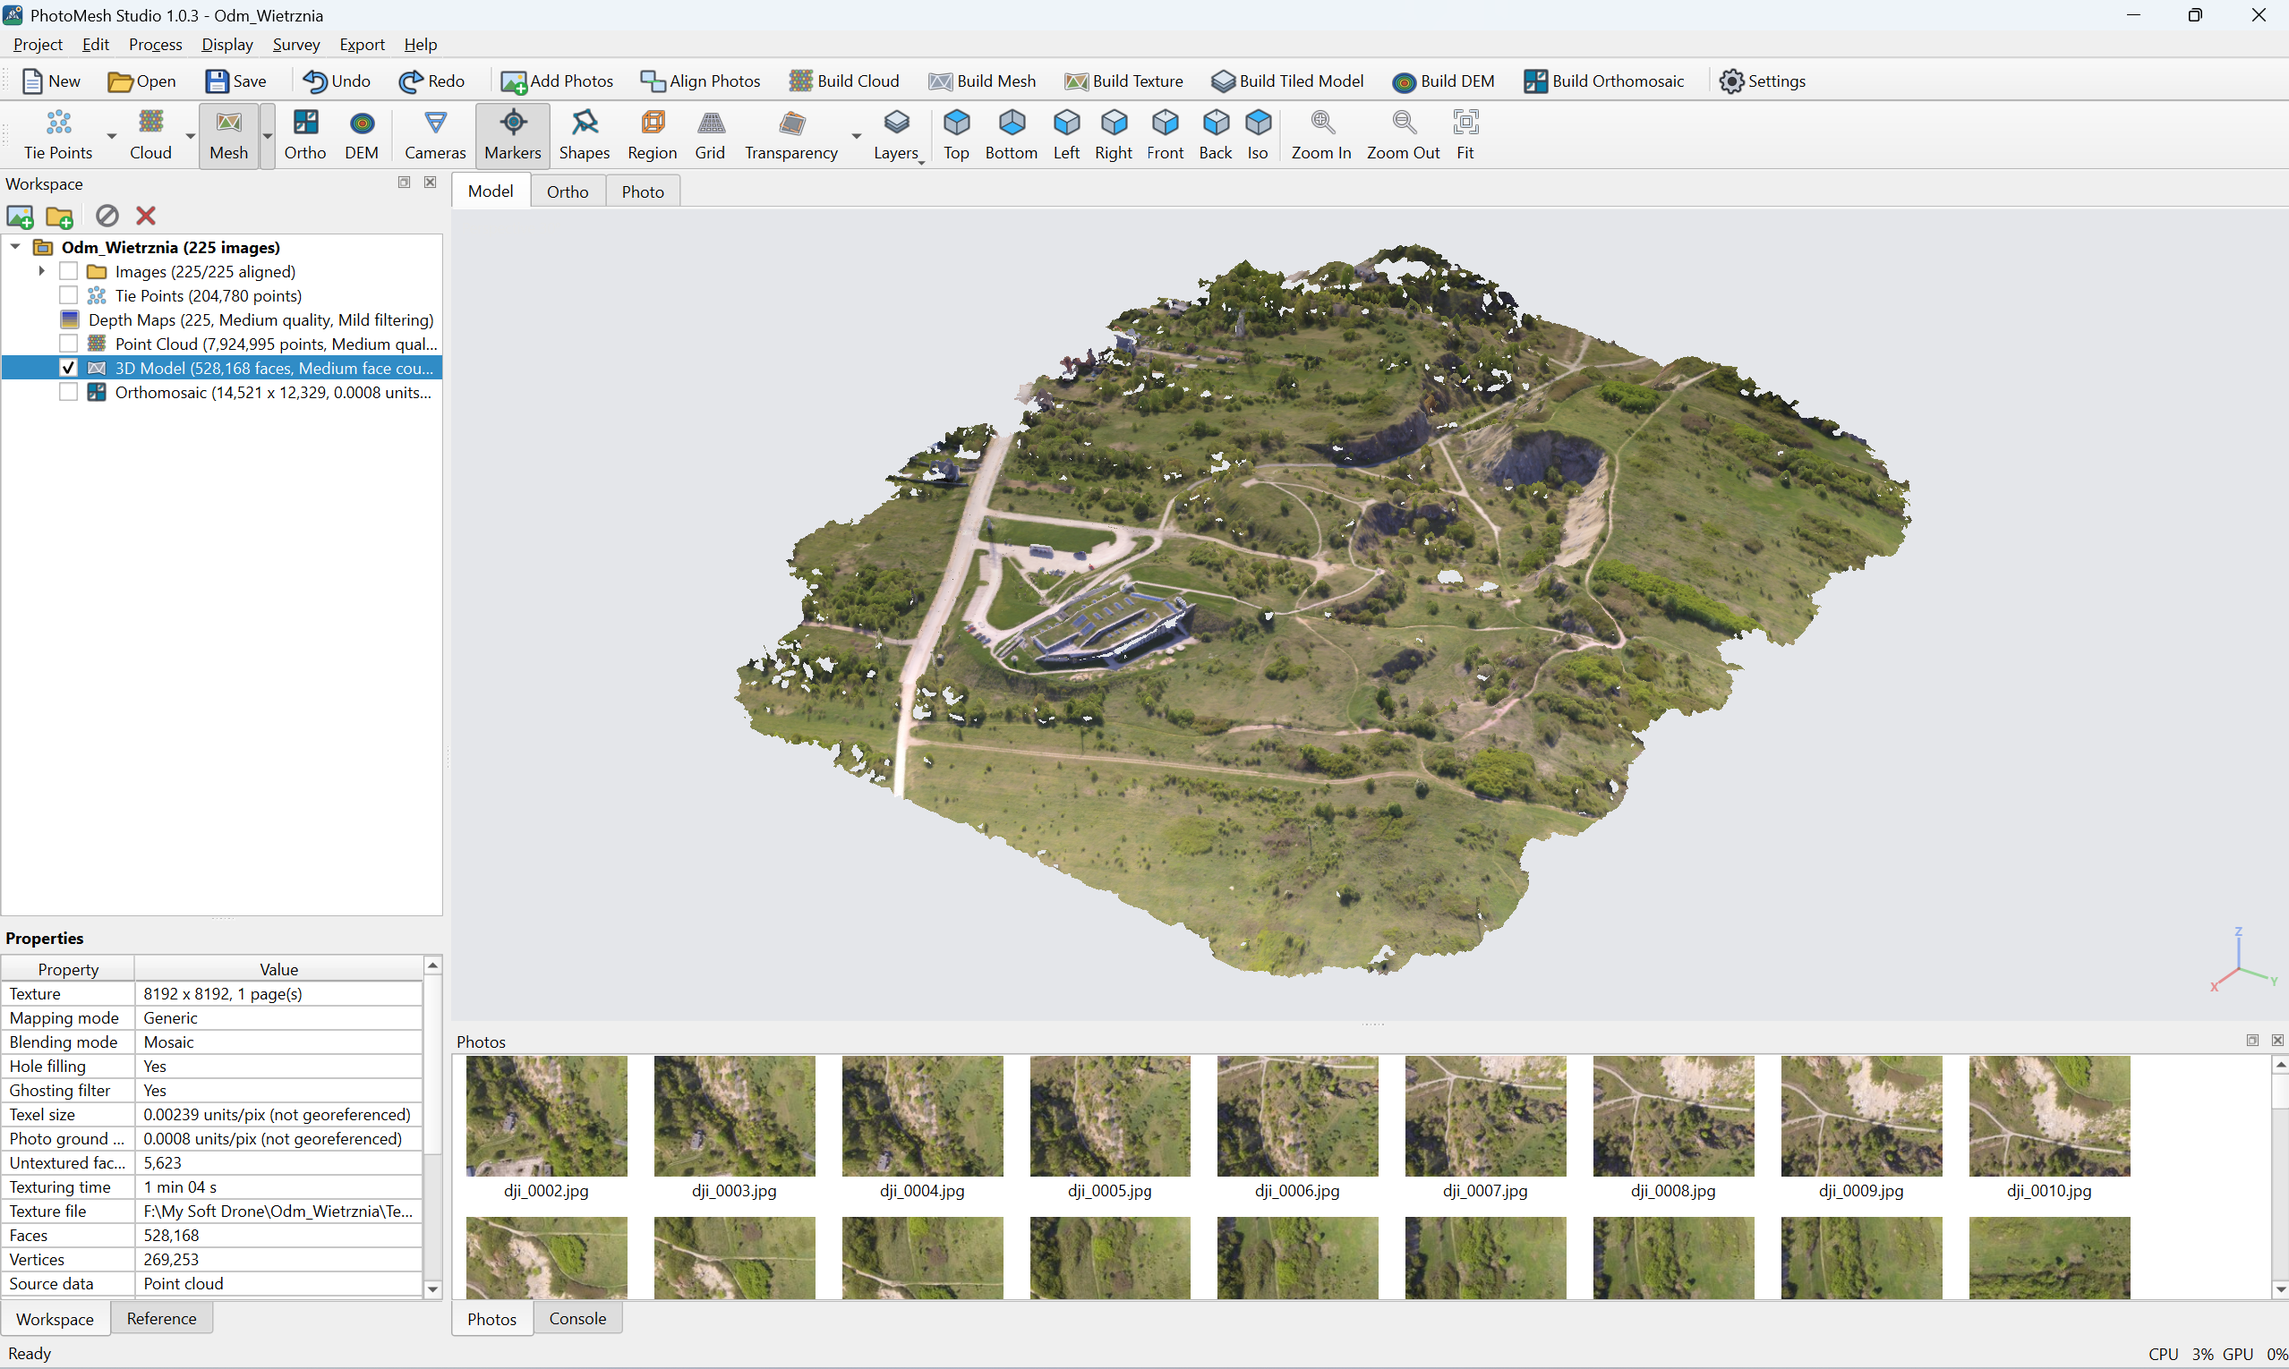
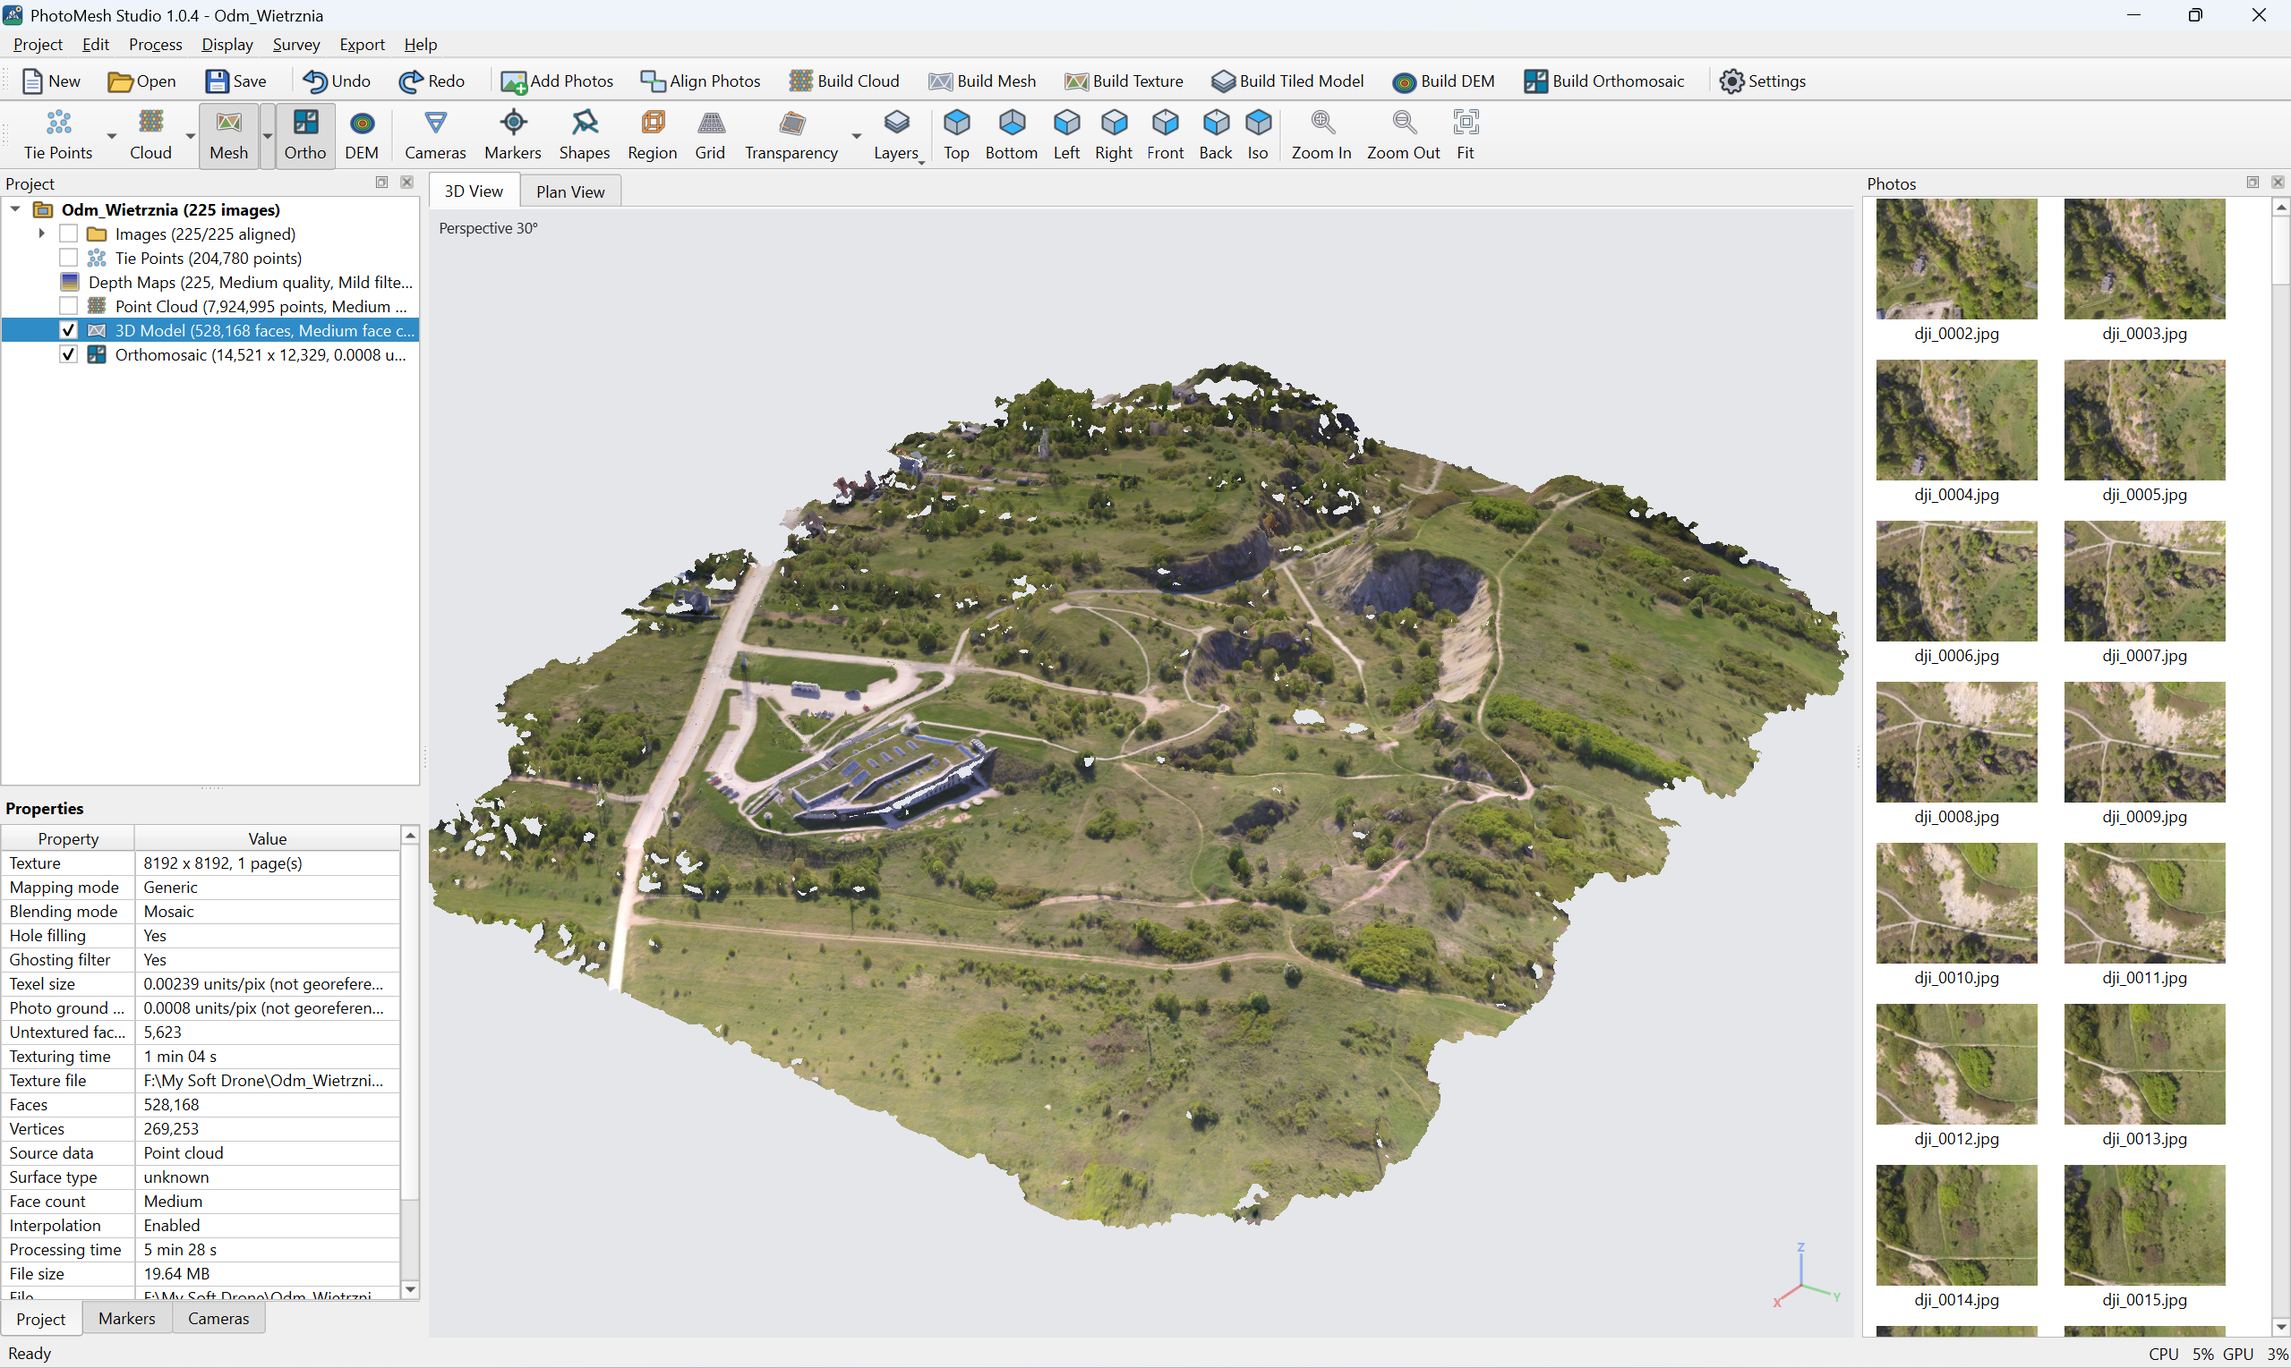
Refresh 1.0.4 project screenshots and published release documentation

diff --git a/packaging/RELEASE.md b/packaging/RELEASE.md
@@ -9,7 +9,7 @@ the new Setup on the existing installation; it replaces the managed app,
 Python, and tools folders. Projects, source photos, and processing results
 should be kept outside the installation folder.
 
-Build from the repository checkout with Inno Setup (the 1.0.3 candidate was verified with Inno Setup 6):
+Build from the repository checkout with Inno Setup:
 
 ```powershell
 powershell.exe -NoProfile -ExecutionPolicy Bypass -File packaging/build_release.ps1 `
@@ -55,31 +55,19 @@ Native CPU integration and numerical benchmarks are documented in the
 [engine review](../docs/development/engine-modernization-102.md). GPU behavior
 must additionally be checked on target hardware before distributing a release.
 
-## Verified 1.0.3 distribution
+## Verified 1.0.4 distribution
 
-[Actions run 42310283579](https://github.com/behdad-nayyerpour/Desktop-PhotoMesh-Studio/actions/runs/42310283579)
-built the complete candidate from `127c682c6d05d61093843f5a1ed8a23f833005d8`.
-It reused the SHA256-verified 1.0.2 runtime, checked runtime identity and staged
-imports, then installed the new Setup over a disposable 1.0.2 installation.
-All 68 application module names and hashes matched; obsolete managed code was
-removed and an external project-metadata fixture was preserved. Installed
-version, About, resources and split-button captions passed.
[1 lines of base64/hex data omitted]
 
-The user approved the installed candidate for public distribution on 2026-11-07.
-The public release reuses that exact Setup/checksum. Remaining target-hardware
-checks are recorded in the [release review](../docs/development/release-review-103.md).
-Documentation-only follow-ups do not alter that tested executable or require a
-new Setup; a later source build will include the updated documentation.
+The [installer run](https://github.com/behdad-nayyerpour/Desktop-PhotoMesh-Studio/actions/runs/42383383859) tested upgrading a disposable 1.0.3 installation. The [publication run](https://github.com/behdad-nayyerpour/Desktop-PhotoMesh-Studio/actions/runs/42399927092) downloaded the public executable and compared it byte-for-byte with the tested installer. The [release review](../docs/development/release-review-104.md) records the validated source and numerical results.
 
-The one-time 1.0.3 publication and archive workflows were retired after success;
-use the production builder above for later versions. Historical Actions evidence
-remains in the release review. Retired workflows are recoverable from Git history
-and are not current release instructions.
+The 1.0.3 installer used in the original upgrade test has since been removed from its public release. For a new build with the same runtime layout, install the current release in a staging environment and supply its installation directory as `-RuntimeSource`. Reproducing the historical upgrade test requires a retained copy of the original 1.0.3 Setup.
+
+Documentation and screenshot changes appear on GitHub immediately. The offline documentation in each Setup reflects its build date.
 
 ## Application license
 
 The builder copies the root `LICENSE` into the staged application. Inno Setup
 shows that file as the application's license agreement. Preserve the separate
 third-party license notices; the application license does not replace them.
-These packaging changes apply to subsequent builds. The already published
-1.0.3 Setup predates the license addition and has not been rebuilt or replaced.
+The 1.0.4 installation also provides offline access to the bundled license through Help > About.

diff --git a/docs/development/release-quality.md b/docs/development/release-quality.md
@@ -77,10 +77,7 @@ it alone does not require rebuilding the Setup or increasing the app version.
 
 ## Approved scope for 1.0.4 (2026-11-07)
 
-The user approved the following scope for the next version. The goal is a
-cleaner layout and a more distinct visual identity while preserving application
-capabilities and integrity. Implementation and the reviewed test installer are complete on the release branch.
-The user subsequently requested the final fixes and explicitly authorized release.
+The following scope shipped in 1.0.4 after the user reviewed the test installer and authorized publication.
 The numerical review and later photo-only marker editing approval are recorded in
 [release-review-104.md](release-review-104.md), which retains final validation evidence.
 
@@ -119,20 +116,18 @@ The numerical review and later photo-only marker editing approval are recorded i
   requires the user's separate approval after that review; scope approval is
   not publication authorization.
 
-## Required for the next application release
+## License notice shipped in 1.0.4
 
 - [x] Add a concise license notice to Help > About PhotoMesh Studio: personal
   and educational non-commercial use; commercial use, including company
   evaluation, requires prior written permission. Provide access to the full
   bundled LICENSE text and keep third-party licenses distinct. Verify readable
   layout in both themes and that the license can be opened offline in the
-  installed application. This is scheduled for the next release; the current
-  1.0.3 executable is unchanged.
+  installed application.
 
 ### Approved About content (2026-11-07)
 
-Implement the following user-approved content in the next application release
-and retain it in subsequent versions. Use the actual application name/version
+Version 1.0.4 includes the following user-approved content. Retain it in subsequent versions. Use the actual application name/version
 from application metadata; the license itself has no version number.
 
 > **PhotoMesh Studio — [Application version]**

diff --git a/docs/development/README.md b/docs/development/README.md
@@ -116,18 +116,15 @@ manual findings, cleanup, validation and remaining target-hardware checks.
 
 ## Release validation and retained tools
 
-[1.0.3 release review](release-review-103.md) is the current consolidated review.
-The temporary toolbar/error/icon preview notes have been removed after their
-relevant findings and evidence were consolidated there. Earlier version-specific
-engine/workflow reports remain historical evidence, as do regression tests.
+The [1.0.4 release review](release-review-104.md) records the marker and GPS
+audit, regression results, installed upgrade and published installer identity.
+The [1.0.3 review](release-review-103.md) retains the earlier baseline.
 
+The production builder accepts a tested installed runtime. The version-specific
+1.0.4 candidate workflow used the former public 1.0.3 installer for its upgrade
+fixture. For a new build, follow the [packaging guide](../../packaging/RELEASE.md).
+The installed validators in `tools/validate_installed_103.py` and
+`tools/validate_installed_104.py` cover their respective versions.
 
-The completed 1.0.3 preview/publication/archive workflows have been retired;
-their successful Actions runs remain linked from the release review. The current
-Tests workflow and production Setup builder are the maintained paths.
-`tools/validate_installed_103.py` is a deliberately version-specific acceptance
-utility for a disposable 1.0.3 installation; it checks installed source identity,
-resources, About and captions. It is not the generic publisher for future versions.
-
-The unreferenced standalone toolbar preview PNG has been removed. The root
-Light/Dark project screenshots are the current user-approved 1.0.3 captures.
+The [project screenshots](../../README.md#screenshots) show the released Windows
+1.0.4 interface in Dark and Light themes.

diff --git a/docs/user-guide.md b/docs/user-guide.md
@@ -77,7 +77,7 @@ atlas and sampled multithreaded. Visibility is cached (`visibility_cache.npz`), 
 compatible re-texturing can reuse visibility work. Actual timings depend on the project.
 
 Output in `<project>.files/…/texture/`: `model_textured.obj/.mtl`, `texture_N.jpg`,
-`model_textured.glb`, `uv.npz`, `info.json`. The workspace row reads
+`model_textured.glb`, `uv.npz`, `info.json`. The Project tree row reads
 `3D Model (N faces, …, Texture 8192x8192)`; Properties lists texel size vs photo
 ground resolution (cm/pix when the dataset is georeferenced, model units otherwise).
 
@@ -204,7 +204,7 @@ Progress dialogs show observed stage progress separately from the weighted
 overall estimate. A stage with an unknown total remains indeterminate.
 Remaining time appears when enough measured progress is available.
 The status bar shows only Ready/Busy and CPU/GPU load. Progress stays in the
-processing dialog or relevant Model/Photos pane. A busy cursor acknowledges
+processing dialog or relevant view. A busy cursor acknowledges
 commands while their settings and input data are being prepared.
 
 ## Project, Markers and Cameras
@@ -247,7 +247,8 @@ background work continues; processing dialogs retain the wait cursor.
 3D marker labels and the legend are rasterized before GL composition to avoid
 driver-dependent glyph corruption over textured models.
 
-Project, Markers and Cameras occupy the left side; Photos is on the right.
+Project, Markers and Cameras occupy the left side, with Photos on the right.
+See the [dark and light theme screenshots](../README.md#screenshots).
 Console and Jobs are initially hidden. Open them from **Display > Panels and
 Toolbars** as floating windows. Their latest visibility and placement are saved.
 **3D View** shows reconstruction products. **Plan View** displays a photograph

diff --git a/README.md b/README.md
@@ -26,17 +26,17 @@ Third-party components retain their respective licenses.
 
 ## Screenshots
 
-Historical project screenshots from the user-reviewed Windows installation of 1.0.3.
-Version 1.0.4 uses the revised Project/Markers/Cameras and Plan View layout described
-in the [user guide](docs/user-guide.md).
+The `Odm_Wietrznia` project is open in PhotoMesh Studio 1.0.4 on Windows.
+Both themes show the same textured 3D model, reconstructed from 225 photographs.
+The Project panel is on the left and the photo thumbnails are on the right.
 
 **Dark theme**
 
-![PhotoMesh Studio 1.0.3 displaying a reconstructed aerial survey in dark mode](screenshot.png?v=ca492977)
+![Dark theme in PhotoMesh Studio 1.0.4 with the textured Wietrznia model in 3D View](screenshot.png)
 
 **Light theme**
 
-![PhotoMesh Studio 1.0.3 displaying a reconstructed aerial survey in light mode](screenshot-light.png?v=bf32d86b)
+![Light theme in PhotoMesh Studio 1.0.4 with the same model, project tree and photo thumbnails](screenshot-light.png)
 
 ## Install
 

diff --git a/docs/development/release-review-104.md b/docs/development/release-review-104.md
@@ -5,9 +5,7 @@
 The user reviewed the test installer, explicitly requested the remaining fixes
 and final public release, then expanded the review to numerical alignment and
 marker error calculations. On 2026-11-07 the user also approved display/select-only
-markers in the 3D and orthophoto views. Release publication remains gated on
-successful final Linux/Windows tests, numerical/performance checks, native CPU
-acceptance, production packaging and disposable installed-upgrade validation.
+markers in the 3D and orthophoto views. [Version 1.0.4](https://github.com/behdad-nayyerpour/Desktop-PhotoMesh-Studio/releases/tag/v1.0.4) was published on 2026-11-07. The [publication run](https://github.com/behdad-nayyerpour/Desktop-PhotoMesh-Studio/actions/runs/42399927092) verified the public download against the installer that passed the upgrade test.
 
 This review covers the changed modules and their callers/workflows. It is not a
 claim that every repository path is bug-free or that synthetic accuracy establishes

diff --git a/CHANGES.md b/CHANGES.md
@@ -4,7 +4,7 @@ Changes are listed from newest to oldest. Installation instructions in older
 entries describe the release at that time; current releases use one full Setup
 EXE. See [Updating](UPDATING.md).
 
-### 1.0.4
+### 1.0.4 (2026-11-07)
 
 - Reset Ortho/DEM selection when opening a photo, allowing one-click return to a raster in Plan View.
 - Use the project filename in exported processing reports instead of legacy dataset names.
@@ -19,7 +19,7 @@ EXE. See [Updating](UPDATING.md).
 - Remember window/panel layout, render styles and successful file/folder picker directories.
 - Add the approved offline About/license text and full bundled license viewer.
 - Clear stale photo identity when a newly requested image cannot be opened.
-- Validation and installer identity are recorded in docs/development/release-review-104.md.
+- [Release validation](docs/development/release-review-104.md) records the numerical checks, upgrade test and checksum of the published installer.
 
 ### 1.0.3 (2026-11-07)
 

diff --git a/docs/development/release-review-103.md b/docs/development/release-review-103.md
@@ -109,9 +109,7 @@ checksum, without rebuilding application code after the installed review.
 The publication workflow checks that application/runtime/build inputs match
 validated commit `127c682c6d05d61093843f5a1ed8a23f833005d8`, verifies the
 successful originating run/artifact and checks the Setup checksum before upload.
-The public download is [v1.0.3](https://github.com/behdad-nayyerpour/Desktop-PhotoMesh-Studio/releases/tag/v1.0.3).
-The repository's full-project screenshots are the user's approved 1.0.3 Light
-and Dark captures. Test artifacts remain historical evidence with limited retention.
+The [v1.0.3 release record](https://github.com/behdad-nayyerpour/Desktop-PhotoMesh-Studio/releases/tag/v1.0.3) contains the archived notes. The installer was removed after 1.0.4 shipped. The 1.0.3 tag preserves the Light and Dark screenshots used for that release. Test artifacts have limited retention.
 
 ## Post-release repository maintenance
 

diff --git a/packaging/README.md b/packaging/README.md
@@ -17,7 +17,7 @@ replaces an existing EXE installation. No separate Update EXE is produced.
 | `RELEASE.md` | Installer build and release validation instructions |
 | `README.md` | This overview |
 
-The installer includes the English README, screenshot, and documentation folder
+The installer includes the English README, both theme screenshots, and the documentation folder
 so **Help > Documentation** can open the local guide without a network connection.
 The shortcut repair helper is retained because the application calls it when
 available. Setup itself creates shortcuts with the application icon.

diff --git a/docs/README.md b/docs/README.md
@@ -11,7 +11,8 @@
 ## Development
 
 - [Run from source and test](development/README.md)
-- [1.0.3 review and validation](development/release-review-103.md)
+- [1.0.4 numerical review and installer validation](development/release-review-104.md)
+- [1.0.3 baseline review](development/release-review-103.md)
 - [Release quality checklist](development/release-quality.md)
 - [Architecture and performance](development/architecture.md)
 - [Project notes and third-party components](development/project-notes.md)

diff --git a/docs/development/architecture.md b/docs/development/architecture.md
@@ -1,6 +1,6 @@
 # Architecture and performance
 
-[Development guide](README.md) · [1.0.3 review](release-review-103.md)
+[Development guide](README.md) · [1.0.4 numerical review](release-review-104.md) · [1.0.3 baseline](release-review-103.md)
 
 ## Current processing pipeline
 
